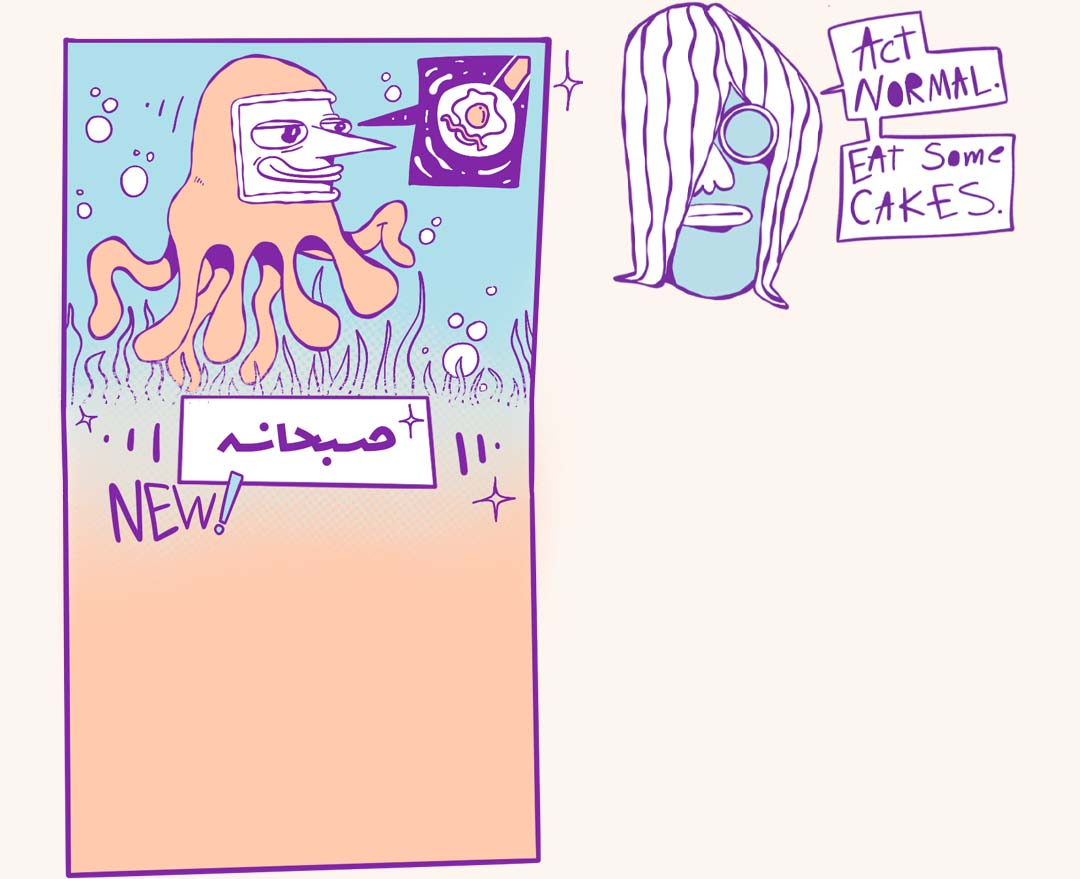
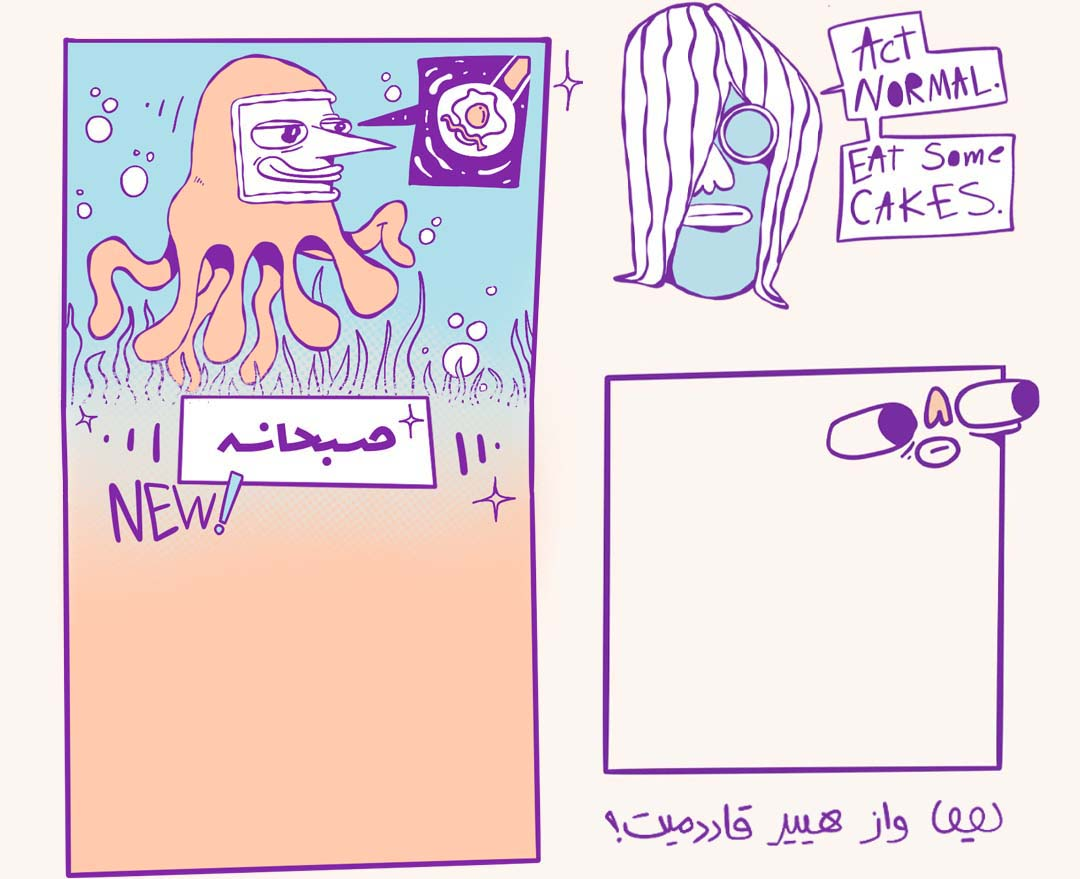
added a daily specials category and moved leila's signature

Changed region(s): [[0.55, 0.3993, 0.9778, 0.8908], [0.55, 0.9215, 0.9472, 0.9829]]

diff --git a/components/menu/menuCategories.tsx b/components/menu/menuCategories.tsx
@@ -355,6 +355,25 @@ export default function MenuCategories() {
                  </div>
                 )
               }
+              //daily
+              if (category._id == "69fba732ebfa0e0f6ecc4f47" && items.length > 0) {
+                return (
+                  <div key={category._id} className="absolute top-[597vw] right-[10vw] w-[31vw] space-y-[0.6vw]">
+                    <h2 className="text-[4.5vw] text-left mb-[3vw]">{category.name}</h2>
+                    {items.map((item: Item) => {
+                      return (
+                        <div key={item._id} className={`flex justify-between text-[3.8vw] ${item.available? "" : " line-through"}`}>
+                          <div>
+                            <p>{item.name}</p>
+                            {item.description && <p className="text-[3vw]">{item.description}</p>}
+                          </div>
+                          <p className="text-orange">{formatCurrency(item.price)}</p>
+                        </div>
+                      )
+                    })}
+                 </div>
+                )
+              }
             })
           }
         </div>
